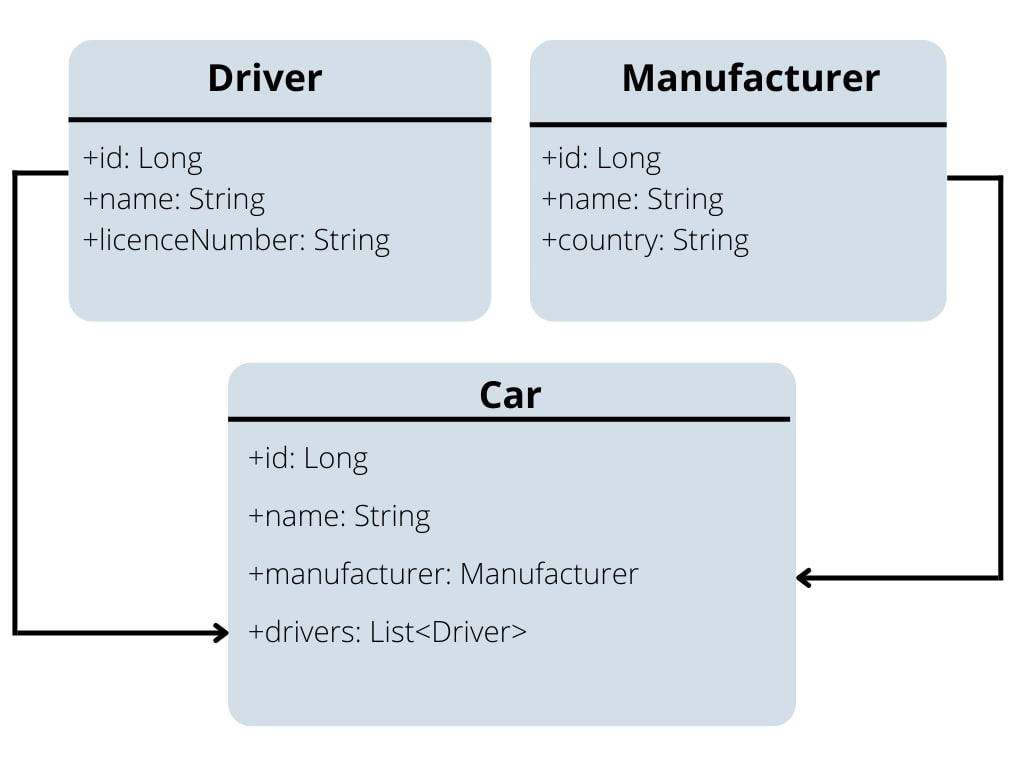
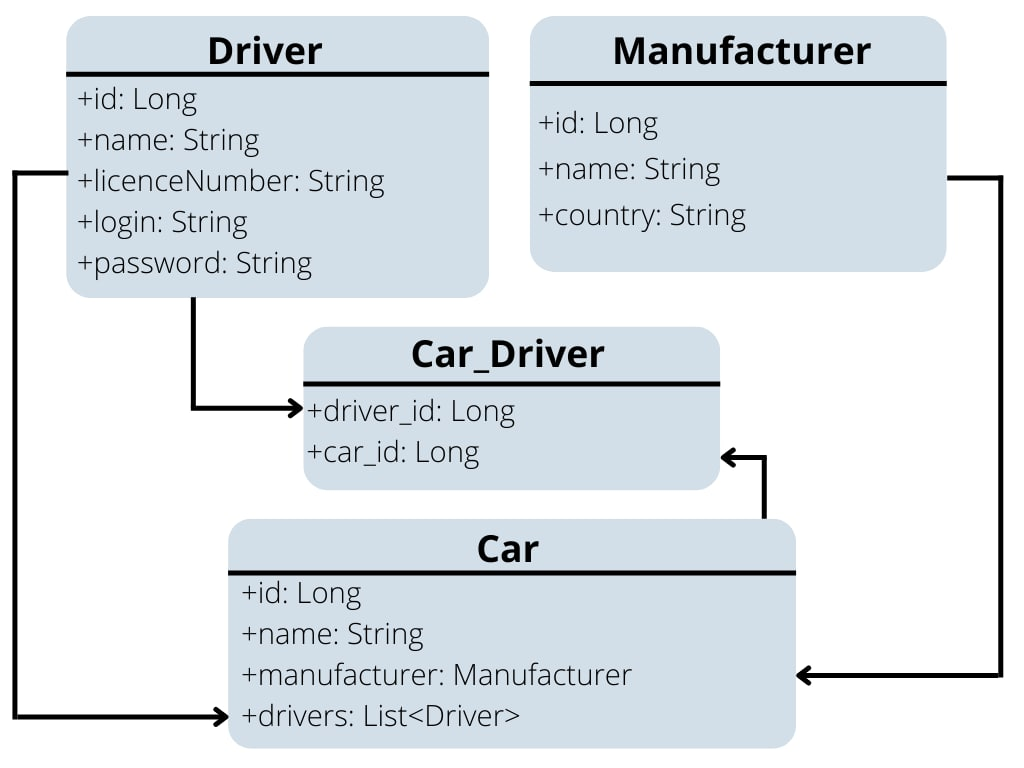
added description and changed schema in README file

Changed region(s): [[0.0625, 0.0, 1.0, 0.875], [0.0, 0.8125, 0.7812, 1.0], [0.7812, 0.875, 0.9688, 0.9062]]

diff --git a/src/main/java/taxi/util/ConnectionUtil.java b/src/main/java/taxi/util/ConnectionUtil.java
@@ -6,11 +6,11 @@ import java.sql.SQLException;
 import java.util.Properties;
 
 public class ConnectionUtil {
-    private static final String URL =
-            "jdbc:mysql://database_server_address/schema_name?serverTimezone=UTC";
-    private static final String USERNAME = "user_name";
-    private static final String PASSWORD = "password";
-    private static final String JDBC_DRIVER = "com.mysql.cj.jdbc.Driver";
+    private static final String URL = "YOUR DATABASE URL";
+    private static final String USERNAME = "YOUR DATABASE USERNAME";
+    private static final String PASSWORD = "YOUR DATABASE PASSWORD";
+    private static final String JDBC_DRIVER = "YOUR DRIVER";
+
 
     static {
         try {

diff --git a/README.md b/README.md
@@ -1,7 +1,7 @@
 # 🚖Taxi-service🚖
 ## Project description:
 ``````
-A simple web-application that supports registration, authentication and other CRUD operations. 
+A simple web-application that supports driver registration, authentication. After registration you can see registered drivers, available cars, manufacturers and what driver which car drives, add, update and remove them. 
 ``````
 ## Features:
 - registration like a driver;
@@ -16,8 +16,13 @@ A simple web-application that supports registration, authentication and other CR
 ## Reference on Heroku:
 - https://dry-basin-82210.herokuapp.com/
 ## Technologies:
+- SOLID principles;
 - based on JDBC (Java Database Connectivity) standard;
 - JSP (JavaServer Pages) technology;
+- Servlet technology;
+- HTML;
+- CSS;
+- Dependency injection technique;
 ## Launch project:
 - clone it to your IDE (Integrated Development Environment);
 - exchange plugs for valid values in ConnectionUtil file;
